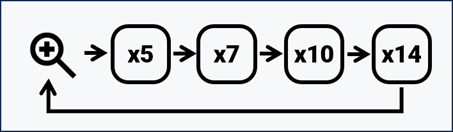
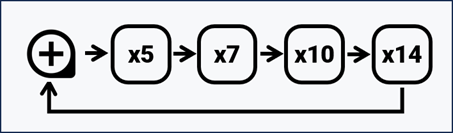
1.1.0 向けに説明を更新。

Changed region(s): [[0.0618, 0.1515, 0.9581, 0.8788], [0.2472, 0.1515, 0.5563, 0.6364]]

diff --git a/Applications/AirA01d/ReadmeJa.md b/Applications/AirA01d/ReadmeJa.md
@@ -18,7 +18,7 @@
     - [画面イメージ](#画面イメージ)
     - [カメラ接続ボタン](#カメラ接続ボタン)
     - [Wi-Fi設定ボタン](#wi-fi設定ボタン)
-    - [カメラ設定ボタン(現状未使用)](#カメラ設定ボタン現状未使用)
+    - [カメラプロパティ設定ボタン](#カメラプロパティ設定ボタン)
     - [アプリ設定ボタン](#アプリ設定ボタン)
     - [グリッド表示/非表示ボタン](#グリッド表示非表示ボタン)
     - [電源OFFボタン](#電源offボタン)
@@ -43,9 +43,11 @@
     - [フォーカスモード(AF/MF)ボタン](#フォーカスモードafmfボタン)
     - [AFアンロック・センターフォーカスボタン](#afアンロックセンターフォーカスボタン)
     - [画像チューニングボタン(現状未使用)](#画像チューニングボタン現状未使用)
+    - [デジタルズームボタン](#デジタルズームボタン)
     - [アスペクト比ボタン](#アスペクト比ボタン)
     - [RAW撮影ON/OFFボタン](#raw撮影onoffボタン)
     - [レンズ距離表示エリア/電動ズーム制御](#レンズ距離表示エリア電動ズーム制御)
+    - [カメラプロパティ設定画面](#カメラプロパティ設定画面)
   - [アプリ設定画面](#アプリ設定画面)
     - [カメラに自動接続](#カメラに自動接続)
     - [操作説明](#操作説明)
@@ -70,8 +72,8 @@ AirA01dは、[オープンプラットフォームカメラ OLYMPUS AIR A01](htt
 
 ## 対応カメラ
 
-- [OLYMPUS AIR AIR A01(プレスリリース)](https://www.olympus.co.jp/jp/news/2015a/nr150205opcj.html)
-  - [主な仕様(プレスリリース)](https://www.olympus.co.jp/jp/news/2015a/nr150205opcspj.html)
+- [OLYMPUS AIR AIR A01(オリンパス プレスリリース)](https://www.olympus.co.jp/jp/news/2015a/nr150205opcj.html)
+  - [主な仕様(オリンパス プレスリリース)](https://www.olympus.co.jp/jp/news/2015a/nr150205opcspj.html)
   - [主な仕様(OMSYSTEMサイト)](https://jp.omsystem.com/cms/record/dslr/a01/spec.pdf)
   - [製品外観(OMSYSTEMサイト)](https://jp.omsystem.com/cms/record/dslr/a01/design.pdf)
   - [「OLYMPUS AIR A01」 は 2018年 3月 31日をもって販売を終了いたしました。](https://digital-faq.jp.omsystem.com/faq/public/app/servlet/relatedqa?QID=005796)
@@ -80,7 +82,11 @@ AirA01dは、[オープンプラットフォームカメラ OLYMPUS AIR A01](htt
 
 ## インストール
 
-(あとで記入します)
+[Google Play](https://play.google.com/store/apps/details?id=jp.osdn.gokigen.aira01d) よりインストール可能です。
+（[GitHub Release](https://github.com/MRSa/AirA01d/releases)にも置いています。）
+
+- [https://play.google.com/store/apps/details?id=jp.osdn.gokigen.aira01d](https://play.google.com/store/apps/details?id=jp.osdn.gokigen.aira01d)
+- [https://github.com/MRSa/AirA01d/releases](https://github.com/MRSa/AirA01d/releases)
 
 -----
 
@@ -145,7 +151,7 @@ Wi-Fi設定アイコンは、アプリがカメラ画像を受信していると
 
 - **① : カメラ接続**
 - **② : Wi-Fi設定**
-- **③ : (現状未使用)**
+- **③ : カメラプロパティ設定**
 - **④ : アプリ設定**
 - **⑤ : グリッド表示/非表示**
 - **⑥ : 電源OFF**
@@ -170,6 +176,7 @@ Wi-Fi設定アイコンは、アプリがカメラ画像を受信していると
 - **s : フォーカスモード(AF/MF)**
 - **t : AFアンロック・センターフォーカス**
 - **u : (現状未使用)**
+- **v : デジタルズーム**
 - **w : アスペクト比**
 - **x : RAW撮影ON/OFF**
 - **y : レンズ距離表示/電動ズーム制御**
@@ -184,9 +191,9 @@ Wi-Fi設定アイコンは、アプリがカメラ画像を受信していると
 
 このボタンを押すと、AndroidのWi-Fi設定画面を開きます。また、カメラと接続中ライブビュー表示を行っているときは、アニメーションで画像を受信していることを示します。
 
-### カメラ設定ボタン(現状未使用)
+### カメラプロパティ設定ボタン
 
-カメラ側の設定を変更する画面（「カメラ設定」画面）を開く予定のボタンです。現状、「カメラ設定」画面は未作成のため、本ボタンは使用できません。
+後述のカメラ側が持つ設定を変更する画面（「カメラプロパティ設定」画面）を開きます。
 
 ### アプリ設定ボタン
 
@@ -391,11 +398,22 @@ Wi-Fi設定アイコンは、アプリがカメラ画像を受信していると
 
 現状未使用です。画像のカスタマイズができるようにしようと思います。
 
+### デジタルズームボタン
+
+デジタルズームを 100% (無効) ～ 300% で変更するボタンです。デジタルズームを行っているときは、アイコンが変わります。
+
+![デジタルズーム](images/digital_zoom.png)
+
 ### アスペクト比ボタン
 
 撮影イメージの縦横比（アスペクト比）が設定できます。標準は 4:3です。
+次のアスペクト比が設定可能です。
 
-![アスペクト比](images/aspect_ratio.png)
+- **4:3**
+- **3:2**
+- **16:9**
+- **3:4**
+- **1:1**
 
 ### RAW撮影ON/OFFボタン
 
@@ -409,6 +427,19 @@ RAW撮影の ON/OFF を切り替えます。
 ズーム操作は、10段階で制御する、いわゆる「ステップズーム」となります。
 
 ![ステップズーム](images/step_zoom.png)
+
+-----
+
+### カメラプロパティ設定画面
+
+カメラプロパティ設定画面は、カメラ側が持っている設定（カメラプロパティ）を参照・変更する画面です。
+
+![カメラプロパティ設定画面](images/camera_property1.png)
+
+「詳細...」ボタンを押すと、変更可能な場合は、変更可能な選択肢を表示します。太字で表示されている項目は現在値です。
+変更ができない場合は、現在値のみを表示します。
+
+![カメラプロパティの選択](images/camera_property2.png)
 
 -----
 
@@ -458,6 +489,7 @@ AirA01d は、次のパーミッションを指定し使用しています。こ
 
 ### 変更履歴
 
+- 1.1.0 : デジタルズーム機能、カメラプロパティについての参照・設定機能を搭載
 - 1.0.0 : 初版作成
 
 ### ソースコード

diff --git a/Applications/AirA01d/ReadmeEn.md b/Applications/AirA01d/ReadmeEn.md
@@ -15,7 +15,7 @@
     - [Screen Layout](#screen-layout)
     - [Camera Connection Button](#camera-connection-button)
     - [Wi-Fi Settings Button](#wi-fi-settings-button)
-    - [Camera Settings Button (Currently Unused)](#camera-settings-button-currently-unused)
+    - [Camera Property Settings Button](#camera-property-settings-button)
     - [App Settings Button](#app-settings-button)
     - [Grid Display Toggle Button](#grid-display-toggle-button)
     - [Power Off Button](#power-off-button)
@@ -30,6 +30,7 @@
     - [White Balance Button](#white-balance-button)
     - [Picture Mode Button](#picture-mode-button)
     - [Metering Mode Button](#metering-mode-button)
+  - [Camera Properties Screen](#camera-properties-screen)
   - [App Settings Screen](#app-settings-screen)
     - [Auto-Connect to Camera](#auto-connect-to-camera)
     - [Instructions](#instructions)
@@ -54,7 +55,7 @@ Unlike [AirA01a](https://play.google.com/store/apps/details?id=jp.osdn.gokigen.a
 
 ## Compatible Cameras
 
-- [OLYMPUS AIR A01 (Press Release)](https://www.olympus-global.com/en/news/2015a/nr150205opce.html)
+- [OLYMPUS AIR A01 (Olympus Press Release)](https://www.olympus-global.com/en/news/2015a/nr150205opce.html)
 - [AIR A01 Support Topics](https://learnandsupport.getolympus.com/support/air-a01)
 - [AIR A01 Instruction Manual](https://learnandsupport.getolympus.com/sites/default/files/media/files/2018/03/AIR_A01_MANUAL.pdf)
 
@@ -62,13 +63,16 @@ Unlike [AirA01a](https://play.google.com/store/apps/details?id=jp.osdn.gokigen.a
 
 ## Installation
 
-(To be added later)
+The release package is available below:
+
+- [https://play.google.com/store/apps/details?id=jp.osdn.gokigen.aira01d](https://play.google.com/store/apps/details?id=jp.osdn.gokigen.aira01d)
+- [https://github.com/MRSa/AirA01d/releases](https://github.com/MRSa/AirA01d/releases)
 
 ---
 
 ## Basic Operations
 
-![撮影画面](images/screen1.png)
+![AirA01d Screen](images/screen1.png)
 
 ### Connecting to the Camera
 
@@ -120,7 +124,7 @@ The button layout adjusts slightly between portrait and landscape orientations.
 
 - **①: Camera Connection**
 - **②: Wi-Fi Settings**
-- **③: (Currently Unused)**
+- **③: Camera Property Settings**
 - **④: App Settings**
 - **⑤: Grid Toggle**
 - **⑥: Power Off**
@@ -145,6 +149,7 @@ The button layout adjusts slightly between portrait and landscape orientations.
 - **s: Focus Mode (AF/MF)**
 - **t: AF Unlock / Center Focus**
 - **u: (Currently Unused)**
+- **v: Digital Zoom**
 - **w: Aspect Ratio**
 - **x: RAW Mode ON/OFF**
 - **y: Lens Distance / Power Zoom Control**
@@ -159,9 +164,9 @@ Connects/disconnects the camera. The icon reflects the current status.
 
 Opens the Android Wi-Fi settings. Animates when receiving a Live View stream.
 
-### Camera Settings Button (Currently Unused)
+### Camera Property Settings Button
 
-Reserved for a future "Camera Settings" screen.
+Open the screen for changing the camera settings(the “Camera Properties” screen).
 
 ### App Settings Button
 
@@ -246,6 +251,19 @@ Sets the finishing style (i-Enhance, Vivid, Natural, Muted, Portrait, Monotone, 
 
 ---
 
+## Camera Properties Screen
+
+The Camera Properties settings screen allows you to view and modify the settings (camera properties) configured on the camera.
+
+![Camera Properties Screen](images/camera_property1.png)
+
+Clicking the “Details...” button displays the available options if changes can be made. Items displayed in bold indicate the current values.
+If changes cannot be made, only the current values are displayed.
+
+![Select property value dialog](images/camera_property2.png)
+
+---
+
 ## App Settings Screen
 
 Configures app behavior. Tap "Back" to return to the shooting screen.
@@ -270,18 +288,19 @@ Displays the GOKIGEN project's [Privacy Policy(Japanese)](https://github.com/MRS
 
 ### Notes & Precautions
 
-* **Connection Stability**: Rapidly tapping buttons may overwhelm the camera's processing, leading to instability. It is recommended to wait for the camera to respond before the next action.
+- **Connection Stability**: Rapidly tapping buttons may overwhelm the camera's processing, leading to instability. It is recommended to wait for the camera to respond before the next action.
 
 ### Permissions
 
 The app requires the following permissions:
 
-* `ACCESS_NETWORK_STATE`, `ACCESS_WIFI_STATE`, `ACCESS_LOCAL_NETWORK`, `INTERNET`: For Wi-Fi communication with the Olympus Air.
-* `VIBRATE`: For haptic feedback on button presses.
+- `ACCESS_NETWORK_STATE`, `ACCESS_WIFI_STATE`, `ACCESS_LOCAL_NETWORK`, `INTERNET`: For Wi-Fi communication with the Olympus Air.
+- `VIBRATE`: For haptic feedback on button presses.
 
 ### Change Log
 
-* **1.0.0**: Initial Release
+- **1.1.0**: Add digital zoom button and Camera Properties Screen.
+- **1.0.0**: Initial Release
 
 ### Source Code
 